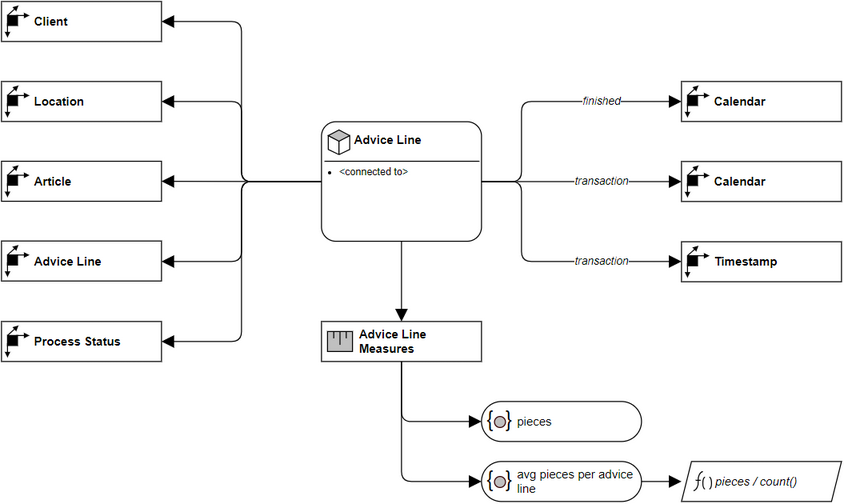
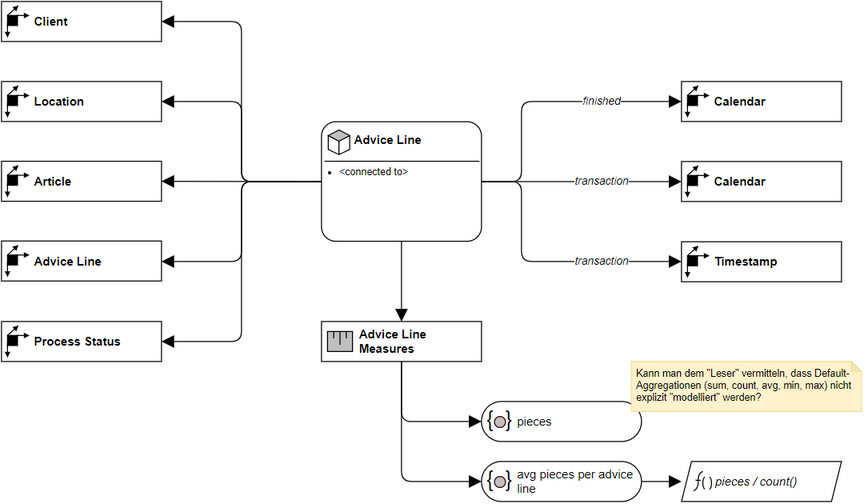
Automatisches Update via Skript

diff --git a/docs/FactAdviceLine.md b/docs/FactAdviceLine.md
@@ -18,6 +18,7 @@
 |FactAdviceLine.GLuP2zMcqy0yixXODWUq-73|DimensionMember|pieces|
 |FactAdviceLine.GLuP2zMcqy0yixXODWUq-78|DimensionMember|avg pieces per advice line|
 |FactAdviceLine.GLuP2zMcqy0yixXODWUq-85|Function|pieces / count()|
+|FactAdviceLine.GLuP2zMcqy0yixXODWUq-93|Comment|Kann man dem "Leser" vermitteln, dass Default-Aggregationen (sum, count, avg, min, max) nicht explizit "modelliert" werden?|
 
 ## recognized connections from b.telligent ADAPT library:
 
